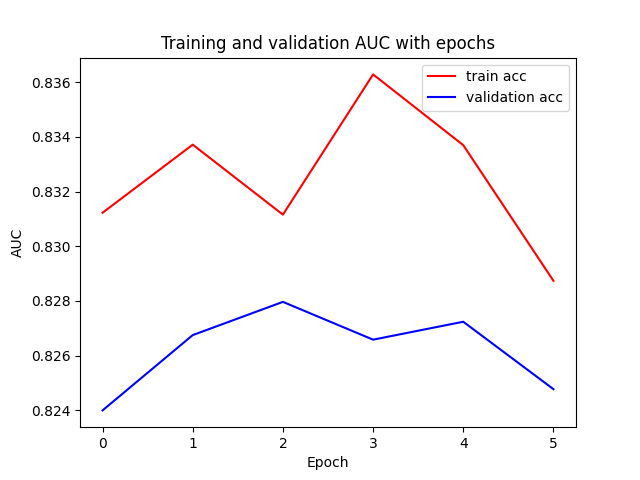
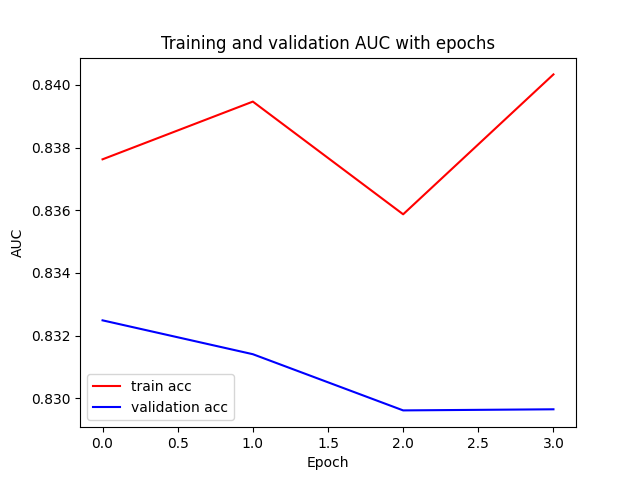
update experiment setting and results

diff --git a/src/main.py b/src/main.py
@@ -95,8 +95,8 @@ if __name__ == '__main__':
         num_layers=2, 
         add_self_loops=True,
         drop_edges=True,
-        pairnorm=True,
-        activation='sigmoid'
+        pairnorm=False,
+        activation='tanh'
     )
 
     trainer = Trainer(model, data, task='Node Classification', fig_name='../figures/nc/PPI')
@@ -120,7 +120,7 @@ if __name__ == '__main__':
     model = MyGCNConvForLinkPrediction(
         num_features, 
         16, 
-        hidden_dim=64, 
+        hidden_dim=32, 
         num_layers=2, 
         add_self_loops=True,
         drop_edges=True,
@@ -146,7 +146,7 @@ if __name__ == '__main__':
     model = MyGCNConvForLinkPrediction(
         num_features, 
         16, 
-        hidden_dim=64, 
+        hidden_dim=32, 
         num_layers=2, 
         add_self_loops=True,
         drop_edges=True,
@@ -191,7 +191,7 @@ if __name__ == '__main__':
     model = MyGCNConvForLinkPrediction(
         num_features, 
         16, 
-        hidden_dim=64, 
+        hidden_dim=32, 
         num_layers=2, 
         add_self_loops=True,
         drop_edges=True,
